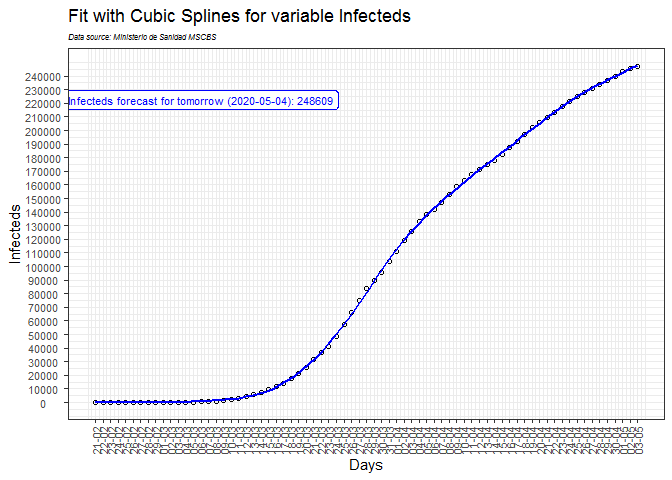
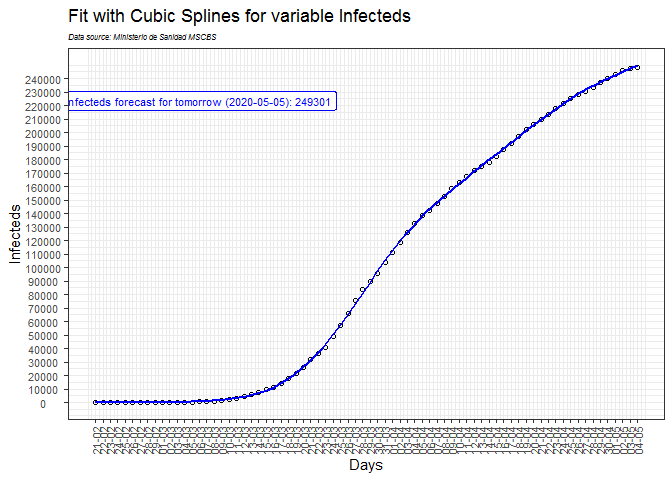
upgrade

diff --git a/README.md b/README.md
@@ -1,7 +1,7 @@
 Covid-19: The case of Spain
 ================
 JMSS \[Usal - CIC\]
-(updated: 03 may 2020)
+(updated: 04 may 2020)
 
 # Models for the COVID-19 pandemic in Spain
 
@@ -40,42 +40,43 @@ It is based on interpolation with cubic splines. See
 
 ![](README_files/figure-gfm/splinesD-1.png)<!-- -->
 
-##### Infecteds forecast for tomorrow (2020-05-04): 248609
+##### Infecteds forecast for tomorrow (2020-05-05): 249301
 
-##### Deaths forecast for tomorrow (2020-05-04): 25428
+##### Deaths forecast for tomorrow (2020-05-05): 25592
 
 Previous predictions:
 
     Infecteds forecast:
 
-    06-04 -> predicted = 136782; observed = 141995; error = -3.81%
-    07-04 -> predicted = 139305; observed = 147257; error = -5.71%
-    08-04 -> predicted = 145988; observed = 152813; error = -4.68%
-    09-04 -> predicted = 152870; observed = 158527; error = -3.70%
-    10-04 -> predicted = 158202; observed = 163125; error = -3.11%
-    11-04 -> predicted = 161598; observed = 167729; error = -3.79%
-    12-04 -> predicted = 166682; observed = 171685; error = -3.00%
-    13-04 -> predicted = 170186; observed = 174844; error = -2.74%
-    14-04 -> predicted = 172973; observed = 178032; error = -2.92%
-    15-04 -> predicted = 175586; observed = 182530; error = -3.95%
-    16-04 -> predicted = 182725; observed = 187597; error = -2.67%
-    17-04 -> predicted = 187999; observed = 192274; error = -2.27%
-    18-04 -> predicted = 193320; observed = 197161; error = -1.99%
-    19-04 -> predicted = 195384; observed = 202312; error = -3.55%
-    20-04 -> predicted = 200162; observed = 205947; error = -2.89%
-    21-04 -> predicted = 204476; observed = 209545; error = -2.48%
-    22-04 -> predicted = 208146; observed = 213268; error = -2.46%
-    23-04 -> predicted = 212600; observed = 217992; error = -2.54%
-    24-04 -> predicted = 217659; observed = 221479; error = -1.76%
-    25-04 -> predicted = 226504; observed = 225341; error =  0.51%
-    26-04 -> predicted = 227754; observed = 228128; error = -0.16%
-    27-04 -> predicted = 229499; observed = 230733; error = -0.54%
-    28-04 -> predicted = 232215; observed = 233578; error = -0.59%
-    29-04 -> predicted = 234834; observed = 236904; error = -0.88%
-    30-04 -> predicted = 240088; observed = 240027; error =  0.03%
-    01-05 -> predicted = 242630; observed = 243235; error = -0.25%
-    02-05 -> predicted = 246030; observed = 245635; error =  0.16%
-    03-05 -> predicted = 247936; observed = 247122; error =  0.33%
+    06-04 -> predicted = 136782; observed = 142026; error = -3.83%
+    07-04 -> predicted = 139305; observed = 147290; error = -5.73%
+    08-04 -> predicted = 145988; observed = 152848; error = -4.70%
+    09-04 -> predicted = 152870; observed = 158563; error = -3.72%
+    10-04 -> predicted = 158202; observed = 163165; error = -3.14%
+    11-04 -> predicted = 161598; observed = 167769; error = -3.82%
+    12-04 -> predicted = 166682; observed = 171724; error = -3.02%
+    13-04 -> predicted = 170186; observed = 174883; error = -2.76%
+    14-04 -> predicted = 172973; observed = 178072; error = -2.95%
+    15-04 -> predicted = 175586; observed = 182572; error = -3.98%
+    16-04 -> predicted = 182725; observed = 187639; error = -2.69%
+    17-04 -> predicted = 187999; observed = 192317; error = -2.30%
+    18-04 -> predicted = 193320; observed = 197206; error = -2.01%
+    19-04 -> predicted = 195384; observed = 202358; error = -3.57%
+    20-04 -> predicted = 200162; observed = 205993; error = -2.91%
+    21-04 -> predicted = 204476; observed = 209592; error = -2.50%
+    22-04 -> predicted = 208146; observed = 213316; error = -2.48%
+    23-04 -> predicted = 212600; observed = 218039; error = -2.56%
+    24-04 -> predicted = 217659; observed = 221527; error = -1.78%
+    25-04 -> predicted = 226504; observed = 225392; error =  0.49%
+    26-04 -> predicted = 227754; observed = 228180; error = -0.19%
+    27-04 -> predicted = 229499; observed = 230786; error = -0.56%
+    28-04 -> predicted = 232215; observed = 233631; error = -0.61%
+    29-04 -> predicted = 234834; observed = 236986; error = -0.92%
+    30-04 -> predicted = 240088; observed = 240121; error = -0.01%
+    01-05 -> predicted = 242630; observed = 243356; error = -0.30%
+    02-05 -> predicted = 246030; observed = 245761; error =  0.11%
+    03-05 -> predicted = 247936; observed = 247301; error =  0.26%
+    04-05 -> predicted = 248609; observed = 248301; error =  0.12%
 
     Deaths forecast:
 
@@ -107,6 +108,7 @@ Previous predictions:
     01-05 -> predicted = 24811; observed = 24824; error = -0.05%
     02-05 -> predicted = 25105; observed = 25100; error =  0.02%
     03-05 -> predicted = 25376; observed = 25264; error =  0.44%
+    04-05 -> predicted = 25428; observed = 25428; error =  0.00%
 
 -----
 
@@ -126,55 +128,56 @@ the model will decrease.
 
 ![](README_files/figure-gfm/regresion-1.png)<!-- -->
 
-##### Infected forecast for tomorrow (2020-05-04): 237926, with 95% prediction interval: (222323 , 253530)
+##### Infected forecast for tomorrow (2020-05-05): 240127, with 95% prediction interval: (224471 , 255783)
 
-##### Deaths forecast for tomorrow (2020-05-04): 24761, with 95% prediction interval: (23671 , 25852)
+##### Deaths forecast for tomorrow (2020-05-05): 24979, with 95% prediction interval: (23888 , 26070)
 
 Previous predictions:
 
     Infected forecast:
 
-    24-03 -> predicted =  38574; observed =  48766; error = -26.4%
-    25-03 -> predicted =  44008; observed =  57282; error = -30.2%
-    26-03 -> predicted =  51614; observed =  66211; error = -28.3%
-    27-03 -> predicted =  60476; observed =  75361; error = -24.6%
-    28-03 -> predicted =  69832; observed =  83630; error = -19.8%
-    29-03 -> predicted =  79588; observed =  90036; error = -13.1%
-    30-03 -> predicted =  88856; observed =  95834; error =  -7.9%
-    31-03 -> predicted =  97620; observed = 103979; error =  -6.5%
-    01-04 -> predicted = 107073; observed = 111384; error =  -4.0%
-    02-04 -> predicted = 116393; observed = 118910; error =  -2.2%
-    03-04 -> predicted = 125701; observed = 126145; error =  -0.4%
-    04-04 -> predicted = 134713; observed = 132799; error =   1.4%
-    05-04 -> predicted = 143291; observed = 138362; error =   3.4%
-    06-04 -> predicted = 151139; observed = 141995; error =   6.1%
-    07-04 -> predicted = 157785; observed = 147257; error =   6.7%
-    08-04 -> predicted = 163883; observed = 152813; error =   6.8%
-    09-04 -> predicted = 156194; observed = 158527; error =  -1.5%
-    10-04 -> predicted = 159990; observed = 163125; error =  -2.0%
-    11-04 -> predicted = 163201; observed = 167729; error =  -2.8%
-    12-04 -> predicted = 166184; observed = 171685; error =  -3.3%
-    13-04 -> predicted = 168756; observed = 174844; error =  -3.6%
-    14-04 -> predicted = 170778; observed = 178032; error =  -4.2%
-    15-04 -> predicted = 172277; observed = 182530; error =  -6.0%
-    16-04 -> predicted = 174407; observed = 187597; error =  -7.6%
-    17-04 -> predicted = 177122; observed = 192274; error =  -8.6%
-    18-04 -> predicted = 178734; observed = 197161; error = -10.3%
-    19-04 -> predicted = 182176; observed = 202312; error = -11.1%
-    20-04 -> predicted = 185733; observed = 205947; error = -10.9%
-    21-04 -> predicted = 189443; observed = 209545; error = -10.6%
-    22-04 -> predicted = 193176; observed = 213268; error = -10.4%
-    23-04 -> predicted = 197066; observed = 217992; error = -10.6%
-    24-04 -> predicted = 201285; observed = 221479; error = -10.0%
-    25-04 -> predicted = 206656; observed = 225341; error =  -9.0%
-    26-04 -> predicted = 211791; observed = 228128; error =  -7.7%
-    27-04 -> predicted = 216298; observed = 230733; error =  -6.7%
-    28-04 -> predicted = 220303; observed = 233578; error =  -6.0%
-    29-04 -> predicted = 223900; observed = 236904; error =  -5.8%
-    30-04 -> predicted = 227692; observed = 240027; error =  -5.4%
-    01-05 -> predicted = 231382; observed = 243235; error =  -5.1%
-    02-05 -> predicted = 232197; observed = 245635; error =  -5.8%
-    03-05 -> predicted = 235320; observed = 247122; error =  -5.0%
+    24-03 -> predicted =  38574; observed =  48771; error = -26.4%
+    25-03 -> predicted =  44008; observed =  57287; error = -30.2%
+    26-03 -> predicted =  51614; observed =  66219; error = -28.3%
+    27-03 -> predicted =  60476; observed =  75370; error = -24.6%
+    28-03 -> predicted =  69832; observed =  83638; error = -19.8%
+    29-03 -> predicted =  79588; observed =  90044; error = -13.1%
+    30-03 -> predicted =  88856; observed =  95843; error =  -7.9%
+    31-03 -> predicted =  97620; observed = 103989; error =  -6.5%
+    01-04 -> predicted = 107073; observed = 111400; error =  -4.0%
+    02-04 -> predicted = 116393; observed = 118931; error =  -2.2%
+    03-04 -> predicted = 125701; observed = 126168; error =  -0.4%
+    04-04 -> predicted = 134713; observed = 132825; error =   1.4%
+    05-04 -> predicted = 143291; observed = 138391; error =   3.4%
+    06-04 -> predicted = 151139; observed = 142026; error =   6.0%
+    07-04 -> predicted = 157785; observed = 147290; error =   6.7%
+    08-04 -> predicted = 163883; observed = 152848; error =   6.7%
+    09-04 -> predicted = 156194; observed = 158563; error =  -1.5%
+    10-04 -> predicted = 159990; observed = 163165; error =  -2.0%
+    11-04 -> predicted = 163201; observed = 167769; error =  -2.8%
+    12-04 -> predicted = 166184; observed = 171724; error =  -3.3%
+    13-04 -> predicted = 168756; observed = 174883; error =  -3.6%
+    14-04 -> predicted = 170778; observed = 178072; error =  -4.3%
+    15-04 -> predicted = 172277; observed = 182572; error =  -6.0%
+    16-04 -> predicted = 174407; observed = 187639; error =  -7.6%
+    17-04 -> predicted = 177122; observed = 192317; error =  -8.6%
+    18-04 -> predicted = 178734; observed = 197206; error = -10.3%
+    19-04 -> predicted = 182176; observed = 202358; error = -11.1%
+    20-04 -> predicted = 185733; observed = 205993; error = -10.9%
+    21-04 -> predicted = 189443; observed = 209592; error = -10.6%
+    22-04 -> predicted = 193176; observed = 213316; error = -10.4%
+    23-04 -> predicted = 197066; observed = 218039; error = -10.6%
+    24-04 -> predicted = 201285; observed = 221527; error = -10.1%
+    25-04 -> predicted = 206656; observed = 225392; error =  -9.1%
+    26-04 -> predicted = 211791; observed = 228180; error =  -7.7%
+    27-04 -> predicted = 216298; observed = 230786; error =  -6.7%
+    28-04 -> predicted = 220303; observed = 233631; error =  -6.0%
+    29-04 -> predicted = 223900; observed = 236986; error =  -5.8%
+    30-04 -> predicted = 227692; observed = 240121; error =  -5.5%
+    01-05 -> predicted = 231382; observed = 243356; error =  -5.2%
+    02-05 -> predicted = 232197; observed = 245761; error =  -5.8%
+    03-05 -> predicted = 235320; observed = 247301; error =  -5.1%
+    04-05 -> predicted = 237926; observed = 248301; error =  -4.4%
 
     Deaths forecast:
 
@@ -219,6 +222,7 @@ Previous predictions:
     01-05 -> predicted = 23877; observed = 24824; error = -4.0%
     02-05 -> predicted = 24206; observed = 25100; error = -3.7%
     03-05 -> predicted = 24508; observed = 25264; error = -3.1%
+    04-05 -> predicted = 24761; observed = 25428; error = -2.7%
 
 -----
 
@@ -239,61 +243,62 @@ Estimates with the SIR model:
 
 ![](README_files/figure-gfm/SIR%20plots-1.png)<!-- -->
 
-According to this model, the rate of infection is 1.21, the height of
-the pandemic will be reached by 13/05/2020.
+According to this model, the rate of infection is 1.41, the height of
+the pandemic will be reached by 22/05/2020.
 
-About 765624 people would be infected by then, which translates to about
-367500 hospitalized cases, about 45937 cases in need of intensive care
-(UCI) and up to 34453 deaths.
+About 2194247 people would be infected by then, which translates to
+about 1053239 hospitalized cases, about 131655 cases in need of
+intensive care (UCI) and up to 98741 deaths.
 
-#### Infected forecast for tomorrow: 362206 (2020-05-04)
+#### Infected forecast for tomorrow: 357248 (2020-05-05)
 
 Previous predictions:
 
-    21-03 -> predicted =  24896; observed =  31640; error = -27.1%
-    22-03 -> predicted =  30117; observed =  36507; error = -21.2%
-    23-03 -> predicted =  35272; observed =  41128; error = -16.6%
-    24-03 -> predicted =  57913; observed =  48766; error =  15.8%
-    25-03 -> predicted =  48440; observed =  57282; error = -18.3%
-    26-03 -> predicted =  57420; observed =  66211; error = -15.3%
-    27-03 -> predicted =  67868; observed =  75361; error = -11.0%
-    28-03 -> predicted =  78955; observed =  83630; error =  -5.9%
-    29-03 -> predicted =  90661; observed =  90036; error =   0.7%
-    30-03 -> predicted = 102000; observed =  95834; error =   6.0%
-    31-03 -> predicted = 113106; observed = 103979; error =   8.1%
-    01-04 -> predicted = 125311; observed = 111384; error =  11.1%
-    02-04 -> predicted = 137373; observed = 118910; error =  13.4%
-    03-04 -> predicted = 150165; observed = 126145; error =  16.0%
-    04-04 -> predicted = 162414; observed = 132799; error =  18.2%
-    05-04 -> predicted = 174860; observed = 138362; error =  20.9%
-    06-04 -> predicted = 186188; observed = 141995; error =  23.7%
-    07-04 -> predicted = 196945; observed = 147257; error =  25.2%
-    08-04 -> predicted = 206927; observed = 152813; error =  26.2%
-    09-04 -> predicted = 217154; observed = 158527; error =  27.0%
-    10-04 -> predicted = 227228; observed = 163125; error =  28.2%
-    11-04 -> predicted = 236766; observed = 167729; error =  29.2%
-    12-04 -> predicted = 246144; observed = 171685; error =  30.3%
-    13-04 -> predicted = 254626; observed = 174844; error =  31.3%
-    14-04 -> predicted = 262925; observed = 178032; error =  32.3%
-    15-04 -> predicted = 270168; observed = 182530; error =  32.4%
-    16-04 -> predicted = 278011; observed = 187597; error =  32.5%
-    17-04 -> predicted = 286247; observed = 192274; error =  32.8%
-    18-04 -> predicted = 240850; observed = 197161; error =  18.1%
-    19-04 -> predicted = 244558; observed = 202312; error =  17.3%
-    20-04 -> predicted = 251935; observed = 205947; error =  18.3%
-    21-04 -> predicted = 263275; observed = 209545; error =  20.4%
-    22-04 -> predicted = 266091; observed = 213268; error =  19.9%
-    23-04 -> predicted = 273274; observed = 217992; error =  20.2%
-    24-04 -> predicted = 285694; observed = 221479; error =  22.5%
-    25-04 -> predicted = 293874; observed = 225341; error =  23.3%
-    26-04 -> predicted = 301895; observed = 228128; error =  24.4%
-    27-04 -> predicted = 303361; observed = 230733; error =  23.9%
-    28-04 -> predicted = 316803; observed = 233578; error =  26.3%
-    29-04 -> predicted = 316741; observed = 236904; error =  25.2%
-    30-04 -> predicted = 330817; observed = 240027; error =  27.4%
-    01-05 -> predicted = 337735; observed = 243235; error =  28.0%
-    02-05 -> predicted = 350027; observed = 245635; error =  29.8%
-    03-05 -> predicted = 356328; observed = 247122; error =  30.6%
+    21-03 -> predicted =  24896; observed =  31644; error = -27.1%
+    22-03 -> predicted =  30117; observed =  36511; error = -21.2%
+    23-03 -> predicted =  35272; observed =  41132; error = -16.6%
+    24-03 -> predicted =  57913; observed =  48771; error =  15.8%
+    25-03 -> predicted =  48440; observed =  57287; error = -18.3%
+    26-03 -> predicted =  57420; observed =  66219; error = -15.3%
+    27-03 -> predicted =  67868; observed =  75370; error = -11.1%
+    28-03 -> predicted =  78955; observed =  83638; error =  -5.9%
+    29-03 -> predicted =  90661; observed =  90044; error =   0.7%
+    30-03 -> predicted = 102000; observed =  95843; error =   6.0%
+    31-03 -> predicted = 113106; observed = 103989; error =   8.1%
+    01-04 -> predicted = 125311; observed = 111400; error =  11.1%
+    02-04 -> predicted = 137373; observed = 118931; error =  13.4%
+    03-04 -> predicted = 150165; observed = 126168; error =  16.0%
+    04-04 -> predicted = 162414; observed = 132825; error =  18.2%
+    05-04 -> predicted = 174860; observed = 138391; error =  20.9%
+    06-04 -> predicted = 186188; observed = 142026; error =  23.7%
+    07-04 -> predicted = 196945; observed = 147290; error =  25.2%
+    08-04 -> predicted = 206927; observed = 152848; error =  26.1%
+    09-04 -> predicted = 217154; observed = 158563; error =  27.0%
+    10-04 -> predicted = 227228; observed = 163165; error =  28.2%
+    11-04 -> predicted = 236766; observed = 167769; error =  29.1%
+    12-04 -> predicted = 246144; observed = 171724; error =  30.2%
+    13-04 -> predicted = 254626; observed = 174883; error =  31.3%
+    14-04 -> predicted = 262925; observed = 178072; error =  32.3%
+    15-04 -> predicted = 270168; observed = 182572; error =  32.4%
+    16-04 -> predicted = 278011; observed = 187639; error =  32.5%
+    17-04 -> predicted = 286247; observed = 192317; error =  32.8%
+    18-04 -> predicted = 240850; observed = 197206; error =  18.1%
+    19-04 -> predicted = 244558; observed = 202358; error =  17.3%
+    20-04 -> predicted = 251935; observed = 205993; error =  18.2%
+    21-04 -> predicted = 263275; observed = 209592; error =  20.4%
+    22-04 -> predicted = 266091; observed = 213316; error =  19.8%
+    23-04 -> predicted = 273274; observed = 218039; error =  20.2%
+    24-04 -> predicted = 285694; observed = 221527; error =  22.5%
+    25-04 -> predicted = 293874; observed = 225392; error =  23.3%
+    26-04 -> predicted = 301895; observed = 228180; error =  24.4%
+    27-04 -> predicted = 303361; observed = 230786; error =  23.9%
+    28-04 -> predicted = 316803; observed = 233631; error =  26.3%
+    29-04 -> predicted = 316741; observed = 236986; error =  25.2%
+    30-04 -> predicted = 330817; observed = 240121; error =  27.4%
+    01-05 -> predicted = 337735; observed = 243356; error =  27.9%
+    02-05 -> predicted = 350027; observed = 245761; error =  29.8%
+    03-05 -> predicted = 356328; observed = 247301; error =  30.6%
+    04-05 -> predicted = 362206; observed = 248301; error =  31.4%
 
 -----
 
